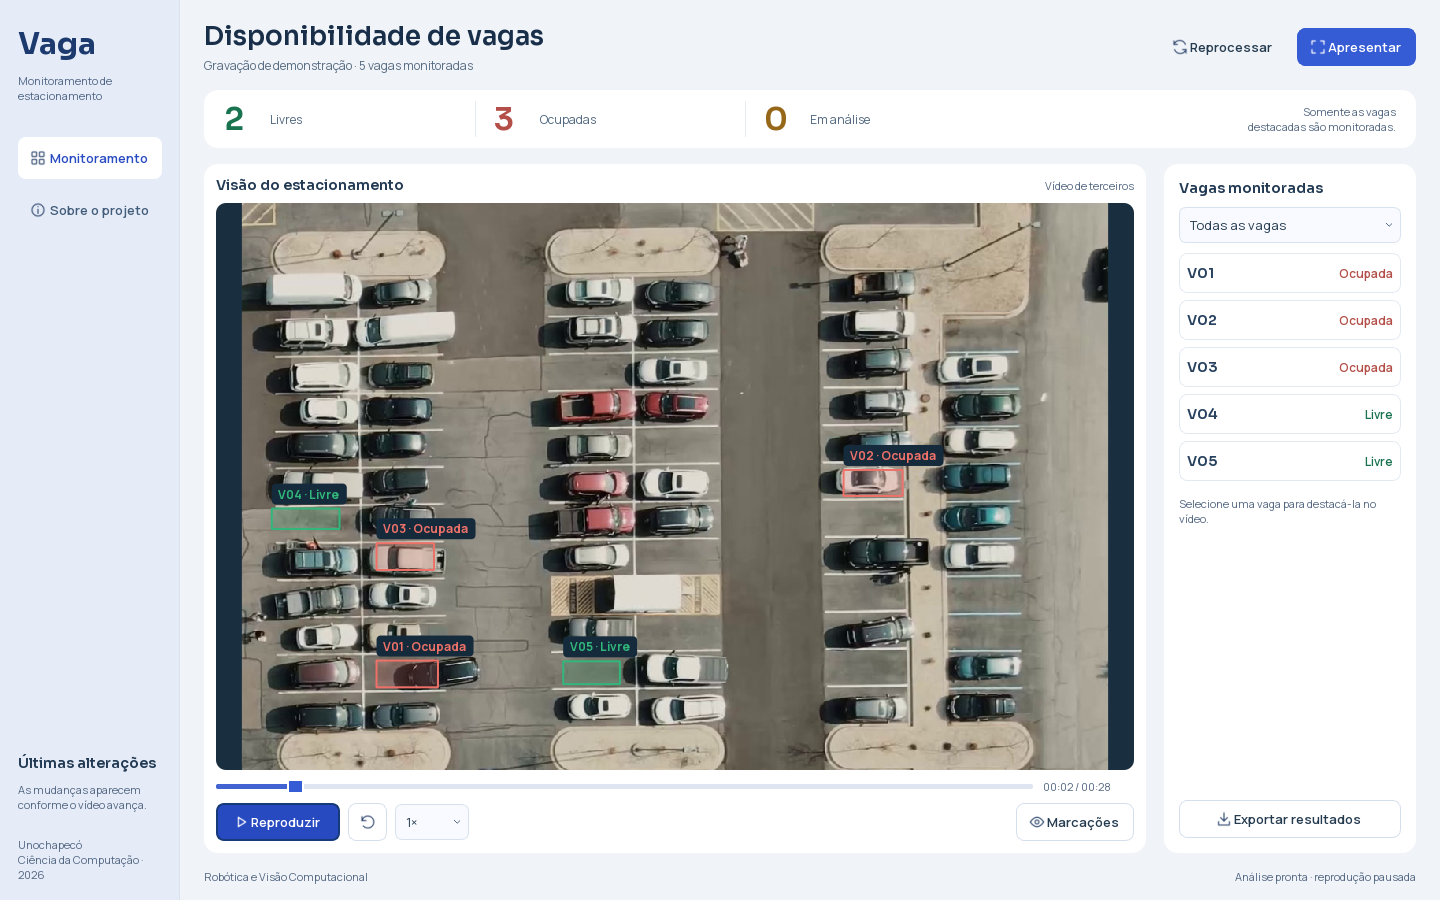
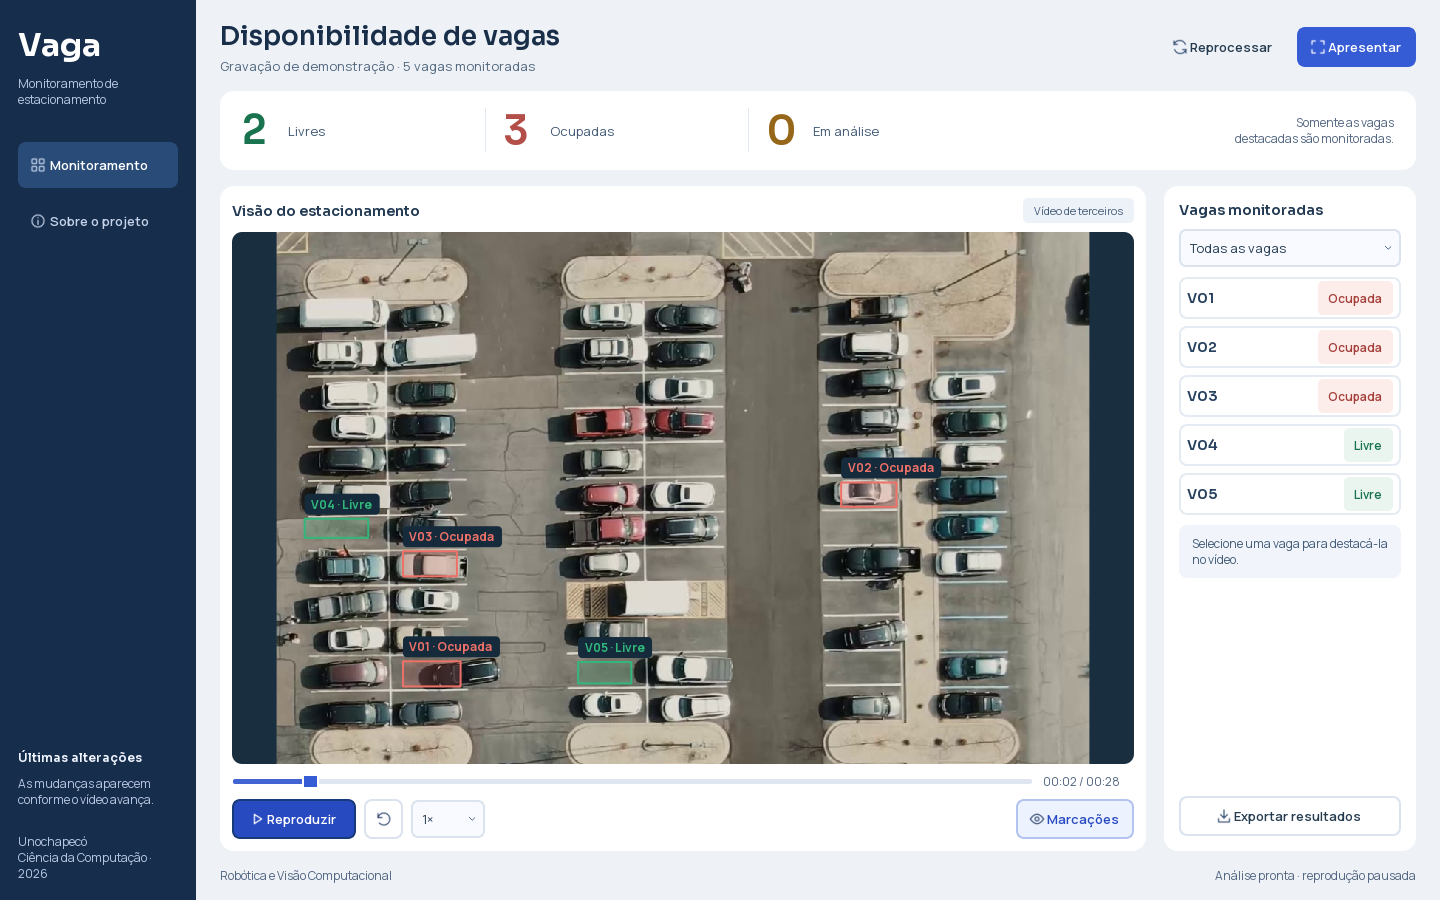
style: reforcar contraste e leitura do aplicativo
Destaca os contadores, diferencia estados por etiquetas e estabiliza os contornos de foco. Limita a coluna de leitura e atualiza a captura e a documentacao visual. Referente a #14.

diff --git a/app/janela.py b/app/janela.py
@@ -16,7 +16,6 @@ from app.modelo import LABELS,load_session
 from app.reproducao import PlaybackController
 
 APP_ROOT=Path(__file__).resolve().parent
-TEXT_COLORS={'livre':'#19734f','ocupada':'#b34f48','indefinida':'#966719'}
 
 
 def configure_application(application):
@@ -50,7 +49,7 @@ def label(text,name=None,wrap=False):
 def button(text,symbol=None,role=None):
     result=QPushButton(text)
     if role:result.setProperty('role',role)
-    if symbol:result.setIcon(icon(symbol,'#ffffff' if role=='primary' else '#3b5276'))
+    if symbol:result.setIcon(icon(symbol,'#ffffff' if role=='primary' else '#c5d3ea' if role=='nav' else '#3b5276'))
     result.setCursor(Qt.CursorShape.PointingHandCursor)
     return result
 
@@ -99,7 +98,7 @@ class MainWindow(QMainWindow):
     def _build(self):
         root=QWidget();root.setObjectName('root');self.setCentralWidget(root)
         overall=QHBoxLayout(root);overall.setContentsMargins(0,0,0,0);overall.setSpacing(0)
-        self.sidebar=QFrame();self.sidebar.setObjectName('sidebar');self.sidebar.setFixedWidth(180)
+        self.sidebar=QFrame();self.sidebar.setObjectName('sidebar');self.sidebar.setFixedWidth(196)
         side=QVBoxLayout(self.sidebar);side.setContentsMargins(18,25,18,18);side.setSpacing(10)
         side.addWidget(label('Vaga','brand'))
         side.addWidget(label('Monitoramento de\nestacionamento','brand_note'))
@@ -116,7 +115,7 @@ class MainWindow(QMainWindow):
         side.addWidget(self.history_empty)
         self.history_list=QListWidget();self.history_list.setObjectName('history')
         self.history_list.setAccessibleName('Alterações de ocupação até o quadro atual')
-        self.history_list.setFixedHeight(148)
+        self.history_list.setFixedHeight(166)
         self.history_list.itemClicked.connect(self.jump_to_event)
         side.addWidget(self.history_list)
         side.addSpacing(15)
@@ -140,7 +139,7 @@ class MainWindow(QMainWindow):
         layout.addLayout(head)
 
         self.metric_strip=QFrame();self.metric_strip.setObjectName('metrics')
-        metrics=QHBoxLayout(self.metric_strip);metrics.setContentsMargins(20,9,20,9);metrics.setSpacing(18)
+        metrics=QHBoxLayout(self.metric_strip);metrics.setContentsMargins(22,14,22,14);metrics.setSpacing(18)
         self.free_value=self._metric(metrics,'Livres','metric_free')
         self._divider(metrics)
         self.occupied_value=self._metric(metrics,'Ocupadas','metric_occupied')
@@ -156,7 +155,7 @@ class MainWindow(QMainWindow):
         video_panel=QFrame();video_panel.setObjectName('video_panel')
         vl=QVBoxLayout(video_panel);vl.setContentsMargins(12,12,12,12);vl.setSpacing(9)
         video_head=QHBoxLayout();video_head.addWidget(label('Visão do estacionamento','section_title'))
-        video_head.addStretch(1);video_head.addWidget(label('Vídeo de terceiros','small'))
+        video_head.addStretch(1);video_head.addWidget(label('Vídeo de terceiros','source_badge'))
         vl.addLayout(video_head)
         self.video=VideoCanvas();self.video.space_clicked.connect(self.select_space)
         vl.addWidget(self.video,1)
@@ -198,14 +197,18 @@ class MainWindow(QMainWindow):
         self.rows_layout=QVBoxLayout();self.rows_layout.setSpacing(7);sl.addLayout(self.rows_layout)
         self.empty_spaces=label('Nenhuma vaga neste estado no quadro atual.','muted',True);self.empty_spaces.hide()
         sl.addWidget(self.empty_spaces)
-        self.selection_detail=label('Selecione uma vaga para destacá-la no vídeo.','small',True)
+        self.selection_detail=label('Selecione uma vaga para destacá-la no vídeo.','selection_detail',True)
         self.selection_detail.setMinimumHeight(40);sl.addWidget(self.selection_detail);sl.addStretch(1)
         self.export_button=button('Exportar resultados','download');self.export_button.clicked.connect(self.export_results)
         sl.addWidget(self.export_button)
         body.addWidget(spaces_panel)
         self.stack.addWidget(monitor)
-        self.about=QTextBrowser();self.about.setOpenExternalLinks(True);self.about.setAccessibleName('Descrição e resultados do projeto')
-        self.stack.addWidget(self.about)
+        about_panel=QFrame();about_panel.setObjectName('about_panel')
+        about_layout=QHBoxLayout(about_panel);about_layout.setContentsMargins(12,10,12,10);about_layout.setSpacing(0)
+        self.about=QTextBrowser();self.about.setMaximumWidth(800)
+        self.about.setOpenExternalLinks(True);self.about.setAccessibleName('Descrição e resultados do projeto')
+        about_layout.addWidget(self.about,1);about_layout.addStretch(0)
+        self.stack.addWidget(about_panel)
         layout.addWidget(self.stack,1)
         footer=QHBoxLayout();self.footer=QWidget();self.footer.setLayout(footer);footer.setContentsMargins(0,0,0,0)
         footer.addWidget(label('Robótica e Visão Computacional','small'));footer.addStretch(1)
@@ -226,7 +229,7 @@ class MainWindow(QMainWindow):
         return value
 
     def _divider(self,layout):
-        divider=QFrame();divider.setObjectName('divider');divider.setFixedSize(1,36);layout.addWidget(divider)
+        divider=QFrame();divider.setObjectName('divider');divider.setFixedSize(1,44);layout.addWidget(divider)
 
     def _enable_controls(self,enabled):
         for widget in self.control_widgets:widget.setEnabled(enabled)
@@ -278,7 +281,9 @@ class MainWindow(QMainWindow):
             name=result['id'];state=result['state']
             if self._state_cache.get(name)!=state:
                 self.state_labels[name].setText(LABELS[state])
-                self.state_labels[name].setStyleSheet(f'color: {TEXT_COLORS[state]};')
+                state_label=self.state_labels[name]
+                state_label.setProperty('state',state)
+                state_label.style().unpolish(state_label);state_label.style().polish(state_label)
                 self.space_rows[name].setAccessibleName(f'Vaga {name}: {LABELS[state]}. Clique para destacar.')
                 self._state_cache[name]=state
         self._apply_filter()
@@ -372,7 +377,8 @@ class MainWindow(QMainWindow):
         self.history_empty.setText('As mudanças aparecem conforme o vídeo avança.')
         self.selection_detail.setText('Aguardando a conclusão da análise.')
         for state_label in self.state_labels.values():
-            state_label.setText('Aguardando');state_label.setStyleSheet('color:#596d82;')
+            state_label.setText('Aguardando');state_label.setProperty('state',None)
+            state_label.style().unpolish(state_label);state_label.style().polish(state_label)
         self._update_about()
         self.video.clear('Analisando a gravação','O detector está conferindo os 679 quadros do vídeo.')
         for value in [self.free_value,self.occupied_value,self.unknown_value]:value.setText('—')

diff --git a/DESIGN.md b/DESIGN.md
@@ -7,13 +7,13 @@ colors:
   primary-focus: "#173a7a"
   focus: "#486bd5"
   canvas-focus: "#6488f5"
-  window: "#f0f3f8"
-  sidebar: "#e5ecf8"
+  window: "#eef2f7"
+  sidebar: "#162d4b"
   surface: "#ffffff"
   text: "#253b50"
   heading: "#192f49"
   section: "#223a53"
-  brand: "#1d3a6f"
+  brand: "#ffffff"
   muted: "#596d82"
   small: "#526681"
   free-text: "#19734f"
@@ -22,17 +22,17 @@ colors:
   free-overlay: "#31b77b"
   occupied-overlay: "#ed7168"
   analysis-overlay: "#efbd54"
-  border: "#d5deeb"
+  border: "#dbe3ee"
   hover: "#edf2fc"
   pressed: "#dfe8f9"
   disabled-text: "#8290a3"
   disabled-surface: "#e9edf3"
   primary-disabled: "#91a5d9"
-  nav-text: "#425c7a"
-  nav-selected: "#294bc1"
+  nav-text: "#c5d3ea"
+  nav-selected: "#ffffff"
   field: "#f8faff"
-  field-border: "#d8e1ee"
-  space-border: "#e3e9f1"
+  field-border: "#dbe3ee"
+  space-border: "#e5ebf3"
   space-selected: "#edf2ff"
   space-selected-border: "#5271d7"
   space-focus: "#e1eaff"
@@ -42,15 +42,25 @@ colors:
   video-detail: "#b5c9dc"
   timeline: "#dfe6f1"
   timeline-progress: "#4264d3"
-  divider: "#e6ebf2"
+  divider: "#e2e8f1"
+  nav-active: "#294b77"
+  nav-hover: "#223f63"
+  nav-focus: "#a4c2ff"
+  sidebar-muted: "#b8c8e3"
+  free-badge: "#e9f5ee"
+  occupied-badge: "#fcecea"
+  occupied-badge-text: "#a43f39"
+  analysis-badge: "#fff3d9"
+  analysis-badge-text: "#855914"
+  selection-detail: "#f1f5fb"
 typography:
   display:
     fontFamily: "Sora"
-    fontSize: "32px"
+    fontSize: "40px"
     fontWeight: 600
   brand:
     fontFamily: "Sora"
-    fontSize: "30px"
+    fontSize: "32px"
     fontWeight: 700
   heading:
     fontFamily: "Sora"
@@ -69,7 +79,7 @@ typography:
     fontWeight: 600
   small:
     fontFamily: "Manrope"
-    fontSize: "11px"
+    fontSize: "12px"
   overlay:
     fontFamily: "Manrope"
     fontSize: "12px"
@@ -77,6 +87,7 @@ typography:
 rounded:
   track: "3px"
   overlay: "4px"
+  badge: "5px"
   field: "7px"
   control: "8px"
   video: "10px"
@@ -89,13 +100,14 @@ spacing:
   step-16: "16px"
   step-18: "18px"
   step-20: "20px"
+  step-22: "22px"
   step-24: "24px"
 components:
   button-primary:
     backgroundColor: "{colors.primary}"
     textColor: "{colors.surface}"
     rounded: "{rounded.control}"
-    padding: "8px 12px"
+    padding: "8px 11px"
   button-primary-hover:
     backgroundColor: "{colors.primary-hover}"
   button-primary-disabled:
@@ -104,25 +116,25 @@ components:
     backgroundColor: "{colors.surface}"
     textColor: "{colors.text}"
     rounded: "{rounded.control}"
-    padding: "8px 12px"
+    padding: "8px 11px"
   button-ghost:
     backgroundColor: "transparent"
     textColor: "{colors.text}"
     rounded: "{rounded.control}"
-    padding: "8px 12px"
+    padding: "8px 11px"
   nav:
     backgroundColor: "transparent"
     textColor: "{colors.nav-text}"
     rounded: "{rounded.control}"
-    padding: "11px 12px"
+    padding: "11px 10px"
   nav-selected:
-    backgroundColor: "{colors.surface}"
+    backgroundColor: "{colors.nav-active}"
     textColor: "{colors.nav-selected}"
   combo:
     backgroundColor: "{colors.field}"
     textColor: "{colors.text}"
     rounded: "{rounded.field}"
-    padding: "7px 10px"
+    padding: "7px 9px"
   panel:
     backgroundColor: "{colors.surface}"
     rounded: "{rounded.panel}"
@@ -130,7 +142,7 @@ components:
     backgroundColor: "{colors.surface}"
     textColor: "{colors.text}"
     rounded: "{rounded.control}"
-    padding: "5px 10px"
+    padding: "5px 8px"
   space-selected:
     backgroundColor: "{colors.space-selected}"
   video:
@@ -148,7 +160,7 @@ components:
 
 **Creative North Star: "Sinalização de transporte"**
 
-A sinalização de transporte orienta o sistema: azuis claros organizam a janela, azul profundo dá estrutura ao texto e as cores de estado fazem o resultado aparecer imediatamente. A composição é serena, funcional e legível durante uma apresentação.
+A sinalização de transporte orienta o sistema: superfícies claras organizam o conteúdo, a lateral azul-escura ancora a navegação e as cores de estado fazem o resultado aparecer imediatamente. A composição é serena, funcional e legível durante uma apresentação.
 
 Os controles preservam a familiaridade de um aplicativo nativo Windows. A imagem real do estacionamento ocupa a maior área; contagens, rótulos e seleção conectam a gravação ao resultado do detector. Informação técnica e créditos usam uma hierarquia discreta.
 
@@ -178,7 +190,7 @@ A paleta combina branco, azuis acinzentados e um azul de ação, reservando verd
 
 ### Neutral
 
-- **Azul de fundo** (`window`) e **azul de navegação** (`sidebar`): separam o espaço de trabalho da faixa lateral.
+- **Azul de fundo** (`window`) e **azul de navegação** (`sidebar`): separam o espaço de trabalho claro da faixa lateral escura. A navegação usa texto claro, seleção tonal e foco de alto contraste.
 - **Branco de painel** (`surface`): contagens, vídeo e lista de vagas.
 - **Azuis de leitura** (`text`, `heading`, `section`, `brand`, `muted`, `small`): hierarquia de títulos, conteúdo, identificação e informações auxiliares.
 - **Azul noturno** (`video`, `overlay-label`): margem do vídeo, estados sem imagem e suporte aos rótulos sobrepostos.
@@ -199,7 +211,7 @@ Sora confere precisão aos títulos e aos números; Manrope mantém controles e 
 - **Heading:** título da página e título da página explicativa; papel `heading`.
 - **Title:** títulos dos painéis e identificadores das vagas; papel `title`.
 - **Body:** texto e controles padrão; papel `body`. Botões recebem peso seminegrito (600).
-- **Label:** estados nas linhas; papel `label`. Subtítulo e rótulos de métricas também usam 12px, com peso normal.
+- **Label:** estados nas linhas; papel `label`. Subtítulo e rótulos de métricas usam 13px, com peso normal.
 - **Small:** tempo, créditos e notas auxiliares; papel `small`.
 - **Overlay:** identificação e estado sobre a imagem; papel `overlay`.
 
@@ -209,9 +221,11 @@ Na tela explicativa, o texto corrido usa 14px e entrelinha 1,6; subtítulos usam
 
 A janela tem tamanho inicial até 1440 × 900 e mínimo de 1060 × 700. Não existem breakpoints de navegador nem versão móvel. Ao reduzir a janela, os painéis laterais mantêm a largura e o vídeo absorve a diferença; as duas capturas finais verificam esses extremos.
 
-A navegação ocupa 180px à esquerda. O conteúdo tem margens de 24px nas laterais, 20px no topo e 16px abaixo, com intervalos verticais de 16px. O título antecede uma faixa única de contadores. Abaixo, o vídeo é expansível e a lista de vagas tem largura fixa de 252px, separados por 18px.
+A navegação ocupa 196px à esquerda. O conteúdo tem margens de 24px nas laterais, 20px no topo e 16px abaixo, com intervalos verticais de 16px. O título antecede uma faixa única de contadores. Abaixo, o vídeo é expansível e a lista de vagas tem largura fixa de 252px, separados por 18px.
 
-Os painéis do vídeo usam margem interna de 12px; a lista usa 15px; a faixa de métricas usa 20px nas laterais e 9px na vertical. As linhas das vagas ficam separadas por 7px. Controles de reprodução usam intervalos de 8px. Essas medidas vêm dos layouts nativos e coexistem com o preenchimento QSS dos controles.
+Os painéis do vídeo usam margem interna de 12px; a lista usa 15px; a faixa de métricas usa 22px nas laterais e 14px na vertical. As linhas das vagas ficam separadas por 7px. Controles de reprodução usam intervalos de 8px. Essas medidas vêm dos layouts nativos e coexistem com o preenchimento QSS dos controles.
+
+A página Sobre mantém a coluna de leitura com largura máxima de 800px dentro de um painel branco. O histórico reserva 166px para os três eventos do exemplo.
 
 O vídeo mantém a proporção da gravação, com margens azul-escuras quando necessário, sem recorte. A área de desenho tem mínimo de 360 × 220. No modo apresentação, a janela ocupa a tela inteira e oculta navegação e rodapé, preservando vídeo, contagens e controles.
 
@@ -225,7 +239,7 @@ A interface não usa sombras nem desfoque. Profundidade vem do contraste entre f
 
 Painéis têm cantos amplos (`panel`); controles têm cantos menores (`control`) e seletores usam `field`. O vídeo possui recorte arredondado (`video`), enquanto as etiquetas sobrepostas usam `overlay`. A geometria acompanha a função e mantém linhas predominantemente retas.
 
-Controles comuns usam borda de 1px. O foco e a seleção de vagas usam 2px; no vídeo, o foco usa 3px. Marcas de vagas preservam seus polígonos reais: traço colorido de 2px no estado comum, traço branco de 3px na seleção. O preenchimento de estado usa alfa 46 de 255; a seleção aumenta para 88 de 255.
+Botões e seletores reservam borda de 2px em todos os estados, evitando deslocamento ao receber foco ou seleção; no vídeo, o foco usa 3px. Marcas de vagas preservam seus polígonos reais: traço colorido de 2px no estado comum, traço branco de 3px na seleção. O preenchimento de estado usa alfa 46 de 255; a seleção aumenta para 88 de 255.
 
 ## Components
 
@@ -237,13 +251,13 @@ O hover do primário escurece o azul; secundários clareiam o fundo; o estado pr
 
 ### Inputs / Fields
 
-A superfície usa seletores nativos de velocidade e filtro, sem campo de texto livre. Ambos têm fundo claro, borda de 1px, seta vetorial e canto `field`. O foco reforça a borda para 2px. A velocidade ocupa 74px; o filtro acompanha a largura do painel.
+A superfície usa seletores nativos de velocidade e filtro, sem campo de texto livre. Ambos têm fundo claro, borda reservada de 2px, seta vetorial e canto `field`. O foco altera a cor da borda sem mudar o tamanho. A velocidade ocupa 74px; o filtro acompanha a largura do painel.
 
 O controle temporal usa trilha de 5px, progresso azul e alça de 13px com borda branca de 2px. O foco também contorna a área do controle. Tempo atual e duração aparecem ao lado.
 
 ### Navigation
 
-A navegação vertical alinha ícone e texto à esquerda. O item ativo recebe fundo branco e texto azul; o hover aplica fundo claro e o foco permanece visível. O histórico fica abaixo, com linhas que combinam identificador, estado, tempo e quadro. Selecionar um evento leva a gravação àquele instante.
+A navegação vertical alinha ícone e texto claros à esquerda sobre azul-escuro. O item ativo recebe fundo azul tonal; o hover reforça a superfície e o foco usa contorno azul-claro. A borda reservada mantém a posição do texto. O histórico fica abaixo, com linhas que combinam identificador, estado, tempo e quadro. Selecionar um evento leva a gravação àquele instante.
 
 ### Cards / Containers
 
@@ -251,11 +265,11 @@ Os três contadores compartilham um painel branco, com divisórias e números de
 
 ### Vagas monitoradas
 
-Cada linha é um botão com identificador à esquerda e estado à direita. A seleção usa `space-selected-border` e `space-selected`; quando também focada, recebe `primary-focus` e `space-focus`. Selecionar a linha destaca a mesma região no vídeo e mostra o percentual de área alterada abaixo da lista.
+Cada linha é um botão com identificador à esquerda e etiqueta de estado à direita. As etiquetas combinam texto escuro e fundo suave verde, vermelho ou âmbar, com preenchimento de 3px por 7px e canto `badge`. A cor dos contadores permanece independente da variante da etiqueta. A seleção usa `space-selected-border` e `space-selected`; quando também focada, recebe `primary-focus` e `space-focus`. Selecionar a linha destaca a mesma região no vídeo e mostra o percentual de área alterada em uma área de detalhe com fundo azul-claro abaixo da lista.
 
 ### Marcações no vídeo
 
-As regiões cadastradas recebem a cor de estado e uma etiqueta escura com identificador e estado. A seleção reforça contorno e preenchimento. As etiquetas têm altura de 21px e largura ajustada ao texto. A imagem permanece dominante; marcações podem ser ocultadas pelo controle “Marcações”.
+As regiões cadastradas recebem a cor de estado e uma etiqueta escura com identificador e estado. A seleção reforça contorno e preenchimento. As etiquetas têm altura de 21px e largura ajustada ao texto. A imagem permanece dominante; marcações podem ser ocultadas pelo controle “Marcações”, cujo estado ativo recebe fundo e borda azuis discretos.
 
 Estados de preparação e falha ocupam a própria área escura do vídeo, com título claro e explicação secundária. Durante o processamento, contadores mostram um travessão e os controles dependentes ficam desabilitados.
 

diff --git a/docs/APLICATIVO.md b/docs/APLICATIVO.md
@@ -43,6 +43,8 @@ Para reutilizar resultados completos de uma execução anterior:
 | Espaço | Aciona o botão com foco; com o vídeo em foco, alterna reprodução e pausa |
 | Sobre o projeto | Método, equipe, origem da filmagem, resultados e limitações |
 
+A navegação usa uma lateral azul-escura e os contadores destacam os totais do quadro atual. A lista mostra etiquetas de estado com texto e fundo colorido. Os controles reservam o mesmo contorno em repouso, seleção e foco, evitando deslocamentos durante a navegação.
+
 Verde significa **Livre**, vermelho significa **Ocupada** e amarelo significa **Em análise**. Os estados também aparecem por escrito. A área alterada é uma fração de pixels comparada à referência, não uma probabilidade de haver um carro.
 
 O histórico inclui somente mudanças confirmadas até o instante mostrado; as confirmações iniciais não são exibidas como entradas ou saídas. Buscar um instante anterior também recua o histórico. Ao terminar a gravação, Reproduzir começa novamente no início.
